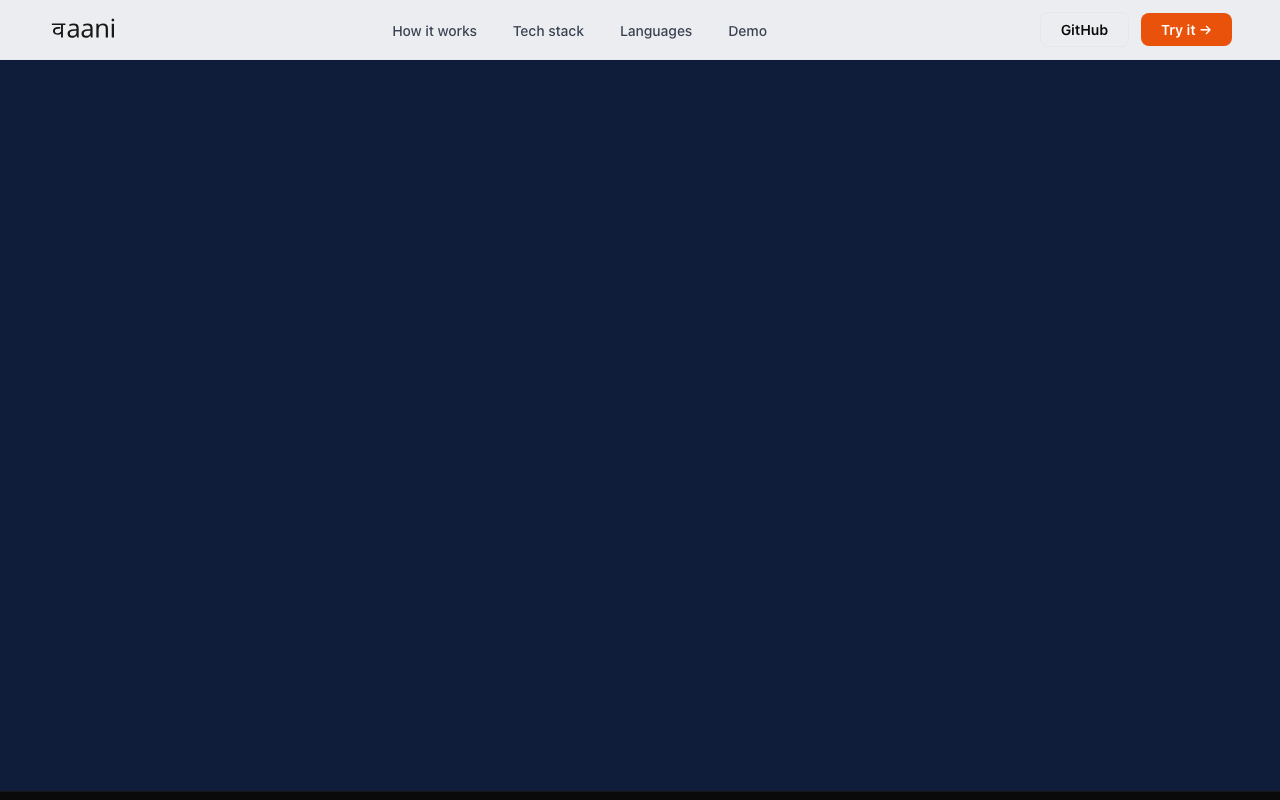
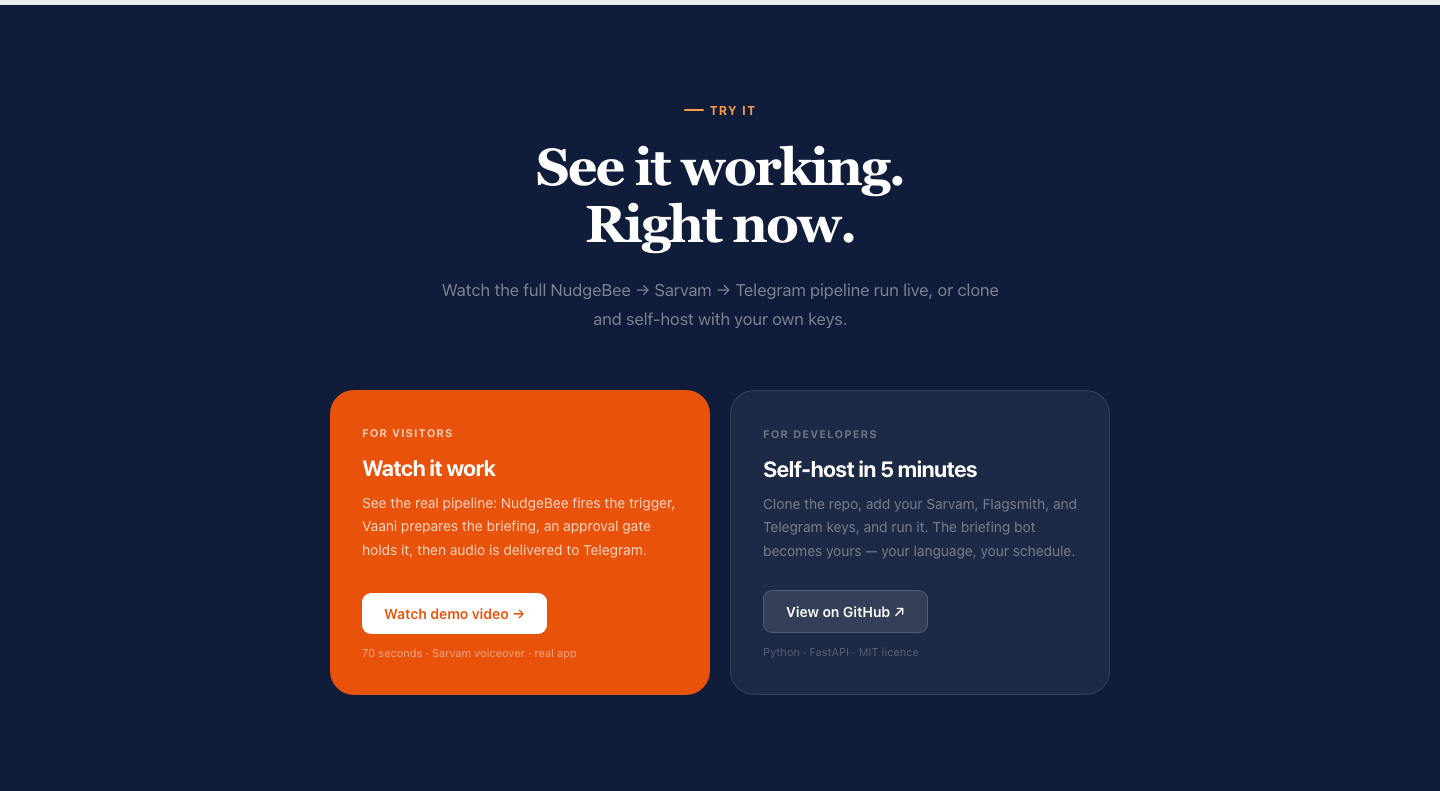
docs: retake screenshots using element.screenshot() — no nav, full content
Previous shots had nav bar overlapping content, fade-up animations
hiding elements, and the dark CTA section showing blank. Fixed by:
- Injecting CSS to disable animations and force fade-up visible
- Using element.screenshot() per section (captures full element, no crop)
- Adding bot-section screenshot for the new Talk to Vaani section
- 1440px viewport for crisp renders

diff --git a/README.md b/README.md
@@ -44,13 +44,17 @@ You don't read it. You listen to it. While making chai.
 
 ## Screenshots
 
-| How it works | Tech stack |
-|---|---|
-| ![How it works](screenshots/how-it-works.png) | ![Tech stack](screenshots/tech-stack.png) |
+![Hero](screenshots/hero.png)
 
-| Languages | Try it |
+![How it works](screenshots/how-it-works.png)
+
+![Talk to Vaani — on demand and scheduled](screenshots/bot-section.png)
+
+| Tech stack | Languages |
 |---|---|
-| ![Languages](screenshots/languages.png) | ![Demo CTA](screenshots/demo-cta.png) |
+| ![Tech stack](screenshots/tech-stack.png) | ![Languages](screenshots/languages.png) |
+
+![Try it](screenshots/demo-cta.png)
 
 ---
 
